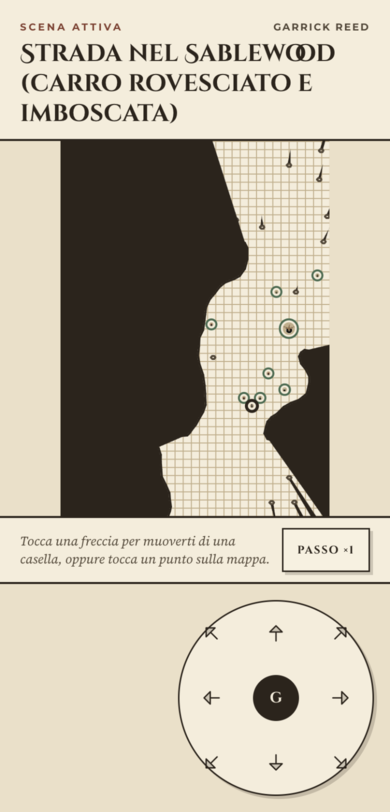
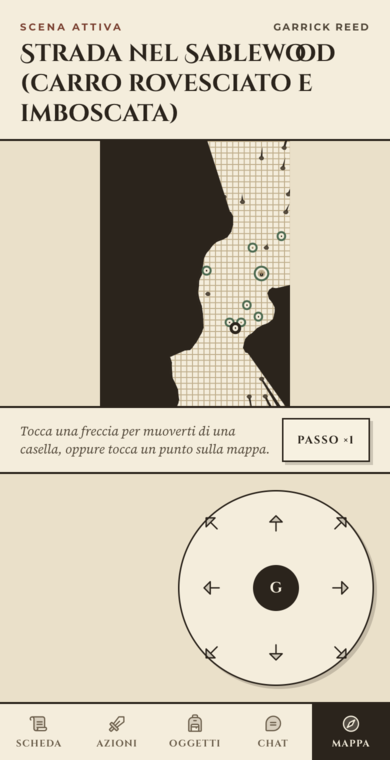
Release 0.5.1: giornata dal vivo, il telefono si apre sulla mappa ma scheda, azioni, oggetti e chat restano nella barra

diff --git a/styles/companion.css b/styles/companion.css
@@ -2615,12 +2615,6 @@ body.fcp-active #notifications {
 
 /* ---------- Live day ---------- */
 
-/* No nav under the map: the pad keeps clear of the home indicator itself. */
-#fcp-app.fcp-live .fcp-padpanel {
-  height: calc(230px + var(--fcp-safe-bottom));
-  padding-bottom: var(--fcp-safe-bottom);
-}
-
 #fcp-app.fcp-live .fcp-map-title .fcp-kicker span:last-child {
   font-weight: 700;
 }

diff --git a/README.md b/README.md
@@ -76,7 +76,7 @@ Per eventi con giocatori nuovi e schede di carta: il telefono serve solo a muove
 
 ![Schermo al tavolo](docs/screenshots/live-schermo.png)
 
-Chi entra con uno di questi account vede solo la mappa del proprio token, su qualsiasi dispositivo, senza pulsanti per uscire. Il GM e gli utenti senza personaggio (per esempio uno schermo al tavolo) non cambiano. Serve il GM collegato, come sempre per il movimento.
+Chi entra con uno di questi account si trova sempre sulla mappa del proprio token, su qualsiasi dispositivo; scheda, azioni, oggetti e chat restano nella barra in basso, per chi ne ha bisogno. Non ci sono pulsanti per uscire o tornare all'interfaccia desktop. Il GM e gli utenti senza personaggio (per esempio uno schermo al tavolo) non cambiano. Serve il GM collegato, come sempre per il movimento.
 
 Il QR può funzionare in due modi:
 
